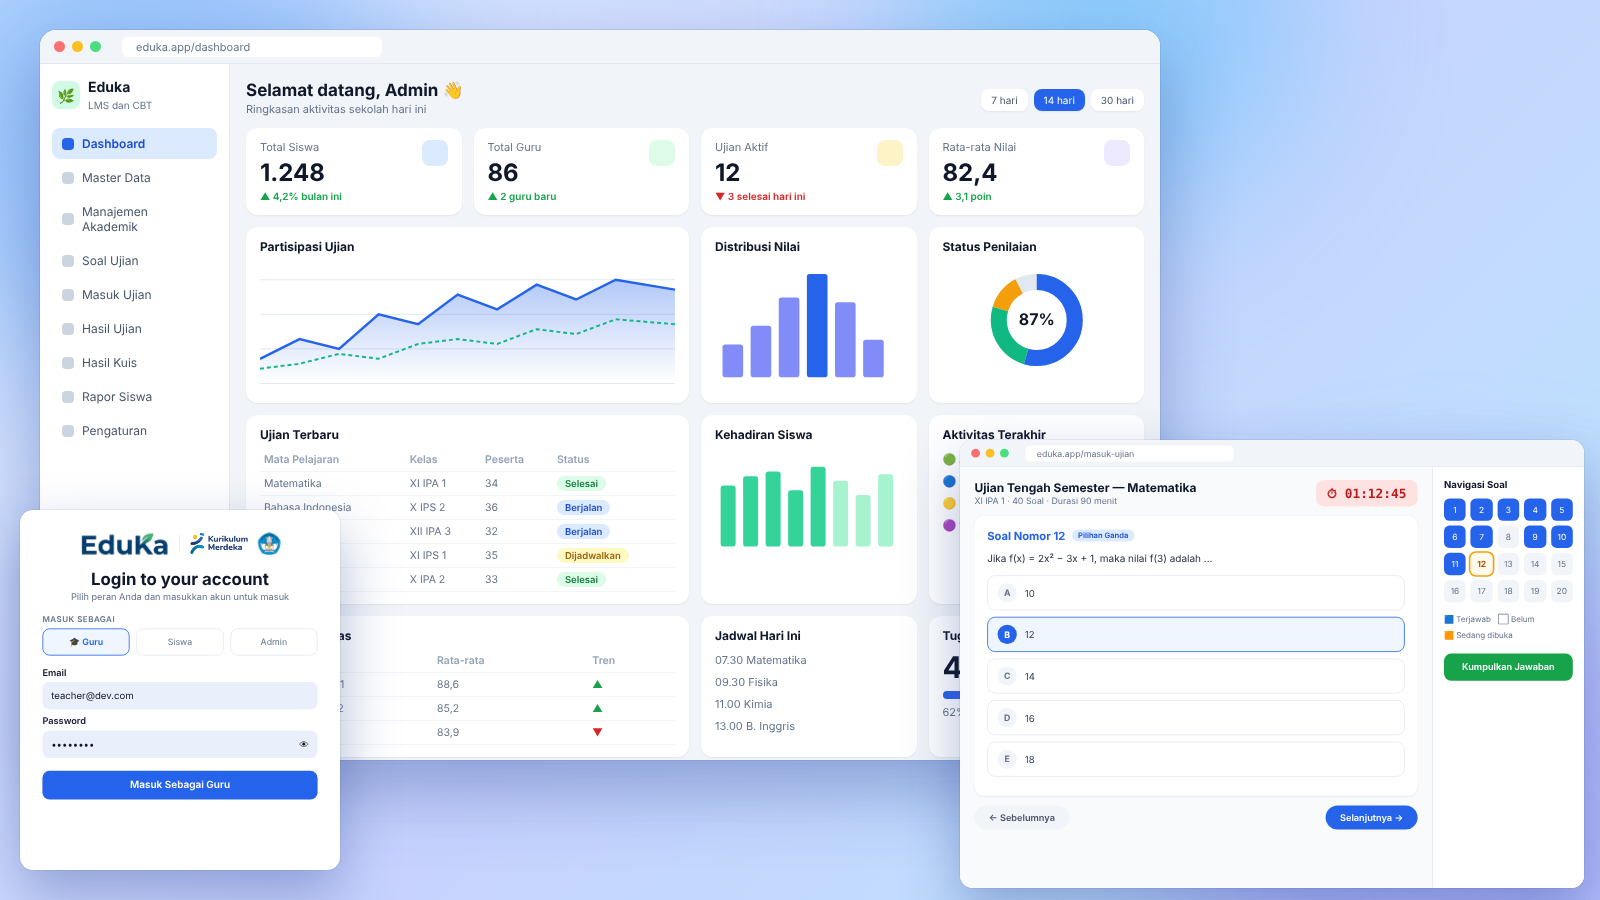
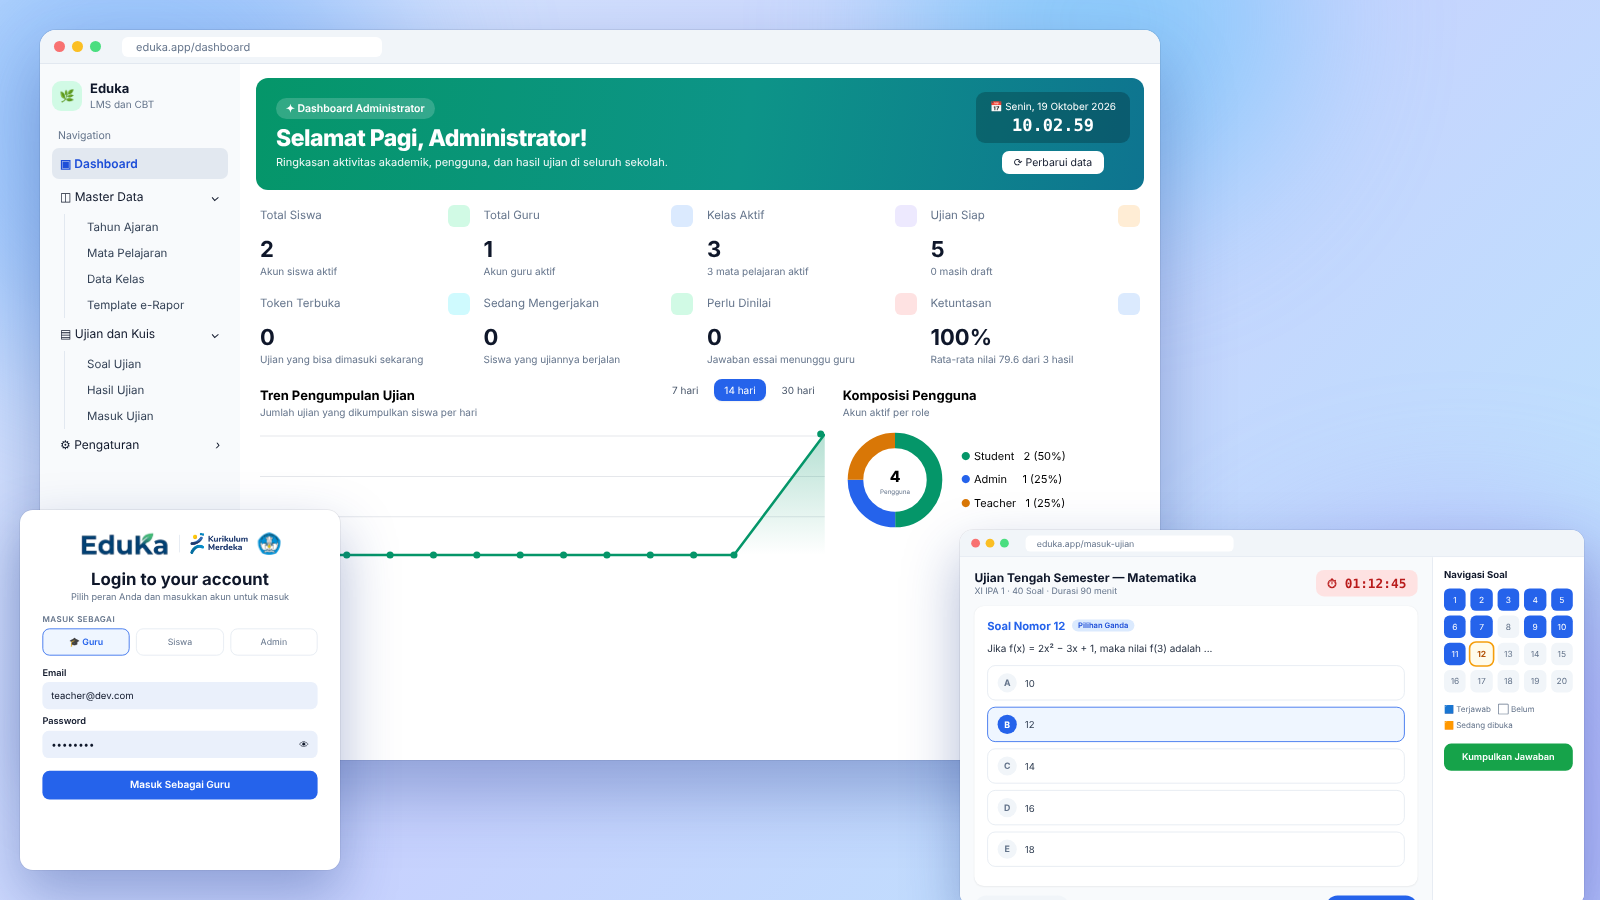
Thumbnail: ganti dashboard sesuai tampilan asli
Claude-Session: https://claude.ai/code/session_01ATwfgHp4Vpqeq6htkAiMvw

diff --git a/docs/thumbnail/thumbnail.html b/docs/thumbnail/thumbnail.html
@@ -58,6 +58,9 @@ table{width:100%;border-collapse:collapse;font-size:10.5px}td,th{padding:5px 4px
 .grid i.d{background:#2563eb;color:#fff}.grid i.c{outline:2px solid #f59e0b;background:#fffbeb;color:#b45309;font-weight:700}
 .legend{font-size:10px;color:#64748b;margin-top:12px;line-height:1.9}
 .k{margin-top:14px;height:34px;border-radius:9px;background:#16a34a;color:#fff;text-align:center;line-height:34px;font-size:11.5px;font-weight:600}
+.nv{padding:8px 8px;border-radius:7px;display:flex;justify-content:space-between;margin-bottom:2px;font-size:12px}.nv.on{background:#e2e8f0;color:#1d4ed8;font-weight:600}
+.sb{padding:6px 0 6px 22px;margin-left:12px;border-left:1px solid #e2e8f0;font-size:11.5px;color:#334155}
+.st{position:relative;font-size:11.5px;color:#64748b}.st i{position:absolute;right:0;top:-3px;width:22px;height:22px;border-radius:6px}.st b{display:block;font-size:22px;color:#0f172a;margin:14px 0 2px}.st small{font-size:10px}
 </style>
 <div class="blob" style="width:520px;height:520px;background:#60a5fa;left:-120px;top:-140px;opacity:.5"></div>
 <div class="blob" style="width:560px;height:560px;background:#a78bfa;right:-140px;bottom:-200px;opacity:.5"></div>
@@ -66,47 +69,49 @@ table{width:100%;border-collapse:collapse;font-size:10.5px}td,th{padding:5px 4px
 <!-- DASHBOARD -->
 <div class="win" style="left:40px;top:30px;width:1120px;height:730px">
  <div class="bar"><i style="background:#f87171"></i><i style="background:#fbbf24"></i><i style="background:#4ade80"></i><span>eduka.app/dashboard</span></div>
- <div class="dash">
-  <div class="side">
-   <div class="brand"><b>🌿</b><div>Eduka<br><small style="font-weight:400;color:#64748b;font-size:10px">LMS dan CBT</small></div></div>
-   <div class="m on">Dashboard</div><div class="m">Master Data</div><div class="m">Manajemen Akademik</div><div class="m">Soal Ujian</div><div class="m">Masuk Ujian</div><div class="m">Hasil Ujian</div><div class="m">Hasil Kuis</div><div class="m">Rapor Siswa</div><div class="m">Pengaturan</div>
+ <div style="display:flex;height:calc(100% - 34px);background:#fff">
+  <div style="width:200px;background:#f8fafc;padding:16px 12px;font-size:12px;color:#0f172a">
+   <div style="display:flex;gap:8px;align-items:center;margin-bottom:18px"><b style="width:30px;height:30px;border-radius:9px;background:#d1fae5;display:grid;place-items:center;color:#059669">🌿</b><div><b style="font-size:13px">Eduka</b><br><span style="font-size:10px;color:#64748b">LMS dan CBT</span></div></div>
+   <div style="font-size:10.5px;color:#64748b;margin:0 6px 6px">Navigation</div>
+   <div class="nv on">▣ Dashboard</div>
+   <div class="nv">◫ Master Data <i>⌄</i></div><div class="sb">Tahun Ajaran</div><div class="sb">Mata Pelajaran</div><div class="sb">Data Kelas</div><div class="sb">Template e-Rapor</div>
+   <div class="nv">▤ Ujian dan Kuis <i>⌄</i></div><div class="sb">Soal Ujian</div><div class="sb">Hasil Ujian</div><div class="sb">Masuk Ujian</div>
+   <div class="nv">⚙ Pengaturan <i>›</i></div>
+   <div style="position:absolute;bottom:16px;display:flex;gap:8px;align-items:center"><b style="width:30px;height:30px;border-radius:50%;background:#0f172a;color:#fff;display:grid;place-items:center;font-size:11px">N</b><div style="font-size:11px"><b>Administrator</b><br><span style="color:#64748b;font-size:10px">administrator@eduka.lo…</span></div></div>
   </div>
-  <div class="main">
-   <div class="top"><div><h2>Selamat datang, Admin 👋</h2><p>Ringkasan aktivitas sekolah hari ini</p></div><div class="chips"><span>7 hari</span><span class="on">14 hari</span><span>30 hari</span></div></div>
-   <div class="card stat"><i class="ic" style="background:#dbeafe"></i>Total Siswa<b>1.248</b><em class="up">▲ 4,2% bulan ini</em></div>
-   <div class="card stat"><i class="ic" style="background:#dcfce7"></i>Total Guru<b>86</b><em class="up">▲ 2 guru baru</em></div>
-   <div class="card stat"><i class="ic" style="background:#fef3c7"></i>Ujian Aktif<b>12</b><em class="dn">▼ 3 selesai hari ini</em></div>
-   <div class="card stat"><i class="ic" style="background:#ede9fe"></i>Rata-rata Nilai<b>82,4</b><em class="up">▲ 3,1 poin</em></div>
-   <div class="card c2"><h4>Partisipasi Ujian</h4>
-    <svg viewBox="0 0 420 130" width="100%"><defs><linearGradient id="a" x1="0" y1="0" x2="0" y2="1"><stop offset="0" stop-color="#2563eb" stop-opacity=".35"/><stop offset="1" stop-color="#2563eb" stop-opacity="0"/></linearGradient></defs>
-    <g stroke="#e2e8f0"><path d="M0 20H420M0 55H420M0 90H420M0 125H420"/></g>
-    <path d="M0 100 L40 80 L80 90 L120 55 L160 65 L200 35 L240 50 L280 25 L320 40 L360 20 L420 30 L420 125 L0 125Z" fill="url(#a)"/>
-    <path d="M0 100 L40 80 L80 90 L120 55 L160 65 L200 35 L240 50 L280 25 L320 40 L360 20 L420 30" fill="none" stroke="#2563eb" stroke-width="2.5"/>
-    <path d="M0 110 L40 105 L80 95 L120 100 L160 85 L200 80 L240 85 L280 70 L320 75 L360 60 L420 65" fill="none" stroke="#10b981" stroke-width="2" stroke-dasharray="4 3"/></svg></div>
-   <div class="card"><h4>Distribusi Nilai</h4>
-    <svg viewBox="0 0 200 130" width="100%"><g fill="#818cf8"><rect x="8" y="90" width="22" height="35" rx="3"/><rect x="38" y="70" width="22" height="55" rx="3"/><rect x="68" y="40" width="22" height="85" rx="3"/><rect x="98" y="15" width="22" height="110" rx="3" fill="#2563eb"/><rect x="128" y="45" width="22" height="80" rx="3"/><rect x="158" y="85" width="22" height="40" rx="3"/></g></svg></div>
-   <div class="card"><h4>Status Penilaian</h4>
-    <svg viewBox="0 0 120 120" width="100%" height="120"><circle cx="60" cy="60" r="38" fill="none" stroke="#e2e8f0" stroke-width="16"/><circle cx="60" cy="60" r="38" fill="none" stroke="#2563eb" stroke-width="16" stroke-dasharray="130 239" transform="rotate(-90 60 60)"/><circle cx="60" cy="60" r="38" fill="none" stroke="#10b981" stroke-width="16" stroke-dasharray="60 239" stroke-dashoffset="-130" transform="rotate(-90 60 60)"/><circle cx="60" cy="60" r="38" fill="none" stroke="#f59e0b" stroke-width="16" stroke-dasharray="30 239" stroke-dashoffset="-190" transform="rotate(-90 60 60)"/><text x="60" y="65" text-anchor="middle" font-size="16" font-weight="700" fill="#0f172a">87%</text></svg></div>
-   <div class="card c2"><h4>Ujian Terbaru</h4><table><tr><th>Mata Pelajaran</th><th>Kelas</th><th>Peserta</th><th>Status</th></tr>
-    <tr><td>Matematika</td><td>XI IPA 1</td><td>34</td><td><span class="pill g">Selesai</span></td></tr>
-    <tr><td>Bahasa Indonesia</td><td>X IPS 2</td><td>36</td><td><span class="pill b">Berjalan</span></td></tr>
-    <tr><td>Fisika</td><td>XII IPA 3</td><td>32</td><td><span class="pill b">Berjalan</span></td></tr>
-    <tr><td>Sejarah</td><td>XI IPS 1</td><td>35</td><td><span class="pill y">Dijadwalkan</span></td></tr>
-    <tr><td>Biologi</td><td>X IPA 2</td><td>33</td><td><span class="pill g">Selesai</span></td></tr></table></div>
-   <div class="card"><h4>Kehadiran Siswa</h4>
-    <svg viewBox="0 0 200 110" width="100%"><g fill="#34d399"><rect x="6" y="40" width="16" height="65" rx="3"/><rect x="30" y="30" width="16" height="75" rx="3"/><rect x="54" y="25" width="16" height="80" rx="3"/><rect x="78" y="45" width="16" height="60" rx="3"/><rect x="102" y="20" width="16" height="85" rx="3"/><rect x="126" y="35" width="16" height="70" rx="3" fill="#a7f3d0"/><rect x="150" y="50" width="16" height="55" rx="3" fill="#a7f3d0"/><rect x="174" y="28" width="16" height="77" rx="3" fill="#a7f3d0"/></g></svg></div>
-   <div class="card"><h4>Aktivitas Terakhir</h4>
-    <div style="line-height:2">🟢 Andi menyelesaikan Fisika<br>🔵 Bu Sari membuat soal baru<br>🟡 Rapor XII IPA diproses<br>🟣 12 siswa remedial</div></div>
-   <div class="card c2"><h4>Peringkat Kelas</h4><table><tr><th>#</th><th>Kelas</th><th>Rata-rata</th><th>Tren</th></tr>
-    <tr><td>1</td><td>XII IPA 1</td><td>88,6</td><td class="up">▲</td></tr><tr><td>2</td><td>XI IPA 2</td><td>85,2</td><td class="up">▲</td></tr><tr><td>3</td><td>X IPS 1</td><td>83,9</td><td class="dn">▼</td></tr></table></div>
-   <div class="card"><h4>Jadwal Hari Ini</h4><div style="line-height:2">07.30 Matematika<br>09.30 Fisika<br>11.00 Kimia<br>13.00 B. Inggris</div></div>
-   <div class="card"><h4>Tugas Belum Dinilai</h4><b style="font-size:30px;color:#0f172a">47</b><div style="margin-top:6px;height:8px;border-radius:99px;background:#e2e8f0"><div style="width:62%;height:100%;border-radius:99px;background:linear-gradient(90deg,#2563eb,#8b5cf6)"></div></div><div style="margin-top:6px">62% sudah dikoreksi</div></div>
+  <div style="flex:1;padding:14px 16px;overflow:hidden">
+   <div style="border-radius:12px;background:linear-gradient(100deg,#059669,#0d9488 55%,#0e7490);color:#fff;padding:18px 20px;height:112px;position:relative">
+    <span style="background:rgba(255,255,255,.18);padding:4px 10px;border-radius:99px;font-size:10.5px;font-weight:600">✦ Dashboard Administrator</span>
+    <div style="font-size:23px;font-weight:800;margin:8px 0 3px;letter-spacing:-.5px">Selamat Pagi, Administrator!</div>
+    <div style="font-size:11px;opacity:.95">Ringkasan aktivitas akademik, pengguna, dan hasil ujian di seluruh sekolah.</div>
+    <div style="position:absolute;right:14px;top:14px;text-align:center"><div style="background:rgba(0,0,0,.22);border-radius:9px;padding:8px 14px;font-size:10px">📅 Senin, 19 Oktober 2026<div style="font:700 17px ui-monospace,monospace;margin-top:3px">10.02.59</div></div><div style="background:#fff;color:#0f172a;border-radius:7px;padding:5px 12px;font-size:10.5px;margin-top:8px;display:inline-block">⟳ Perbarui data</div></div>
+   </div>
+   <div style="display:grid;grid-template-columns:repeat(4,1fr);gap:18px 14px;margin:18px 4px 18px">
+    <div class="st"><i style="background:#d1fae5"></i>Total Siswa<b>2</b><small>Akun siswa aktif</small></div>
+    <div class="st"><i style="background:#dbeafe"></i>Total Guru<b>1</b><small>Akun guru aktif</small></div>
+    <div class="st"><i style="background:#ede9fe"></i>Kelas Aktif<b>3</b><small>3 mata pelajaran aktif</small></div>
+    <div class="st"><i style="background:#ffedd5"></i>Ujian Siap<b>5</b><small>0 masih draft</small></div>
+    <div class="st"><i style="background:#cffafe"></i>Token Terbuka<b>0</b><small>Ujian yang bisa dimasuki sekarang</small></div>
+    <div class="st"><i style="background:#d1fae5"></i>Sedang Mengerjakan<b>0</b><small>Siswa yang ujiannya berjalan</small></div>
+    <div class="st"><i style="background:#fee2e2"></i>Perlu Dinilai<b>0</b><small>Jawaban essai menunggu guru</small></div>
+    <div class="st"><i style="background:#dbeafe"></i>Ketuntasan<b>100%</b><small>Rata-rata nilai 79.6 dari 3 hasil</small></div>
+   </div>
+   <div style="display:grid;grid-template-columns:1.9fr 1fr;gap:18px;margin:0 4px">
+    <div><div style="display:flex;justify-content:space-between"><div><b style="font-size:13px">Tren Pengumpulan Ujian</b><div style="font-size:10px;color:#64748b;margin-top:2px">Jumlah ujian yang dikumpulkan siswa per hari</div></div>
+     <div class="chips" style="font-size:10px"><span style="box-shadow:none">7 hari</span><span class="on">14 hari</span><span style="box-shadow:none">30 hari</span></div></div>
+     <svg viewBox="0 0 560 150" width="100%" style="margin-top:8px"><defs><linearGradient id="g2" x1="0" y1="0" x2="0" y2="1"><stop offset="0" stop-color="#059669" stop-opacity=".3"/><stop offset="1" stop-color="#059669" stop-opacity="0"/></linearGradient></defs>
+      <g stroke="#e5e7eb"><path d="M0 10H560M0 50H560M0 90H560"/></g><path d="M0 128H470L560 8V128Z" fill="url(#g2)"/><path d="M0 128H470L560 8" fill="none" stroke="#059669" stroke-width="2.5"/>
+      <g fill="#059669"><circle cx="0" cy="128" r="3.5"/><circle cx="43" cy="128" r="3.5"/><circle cx="86" cy="128" r="3.5"/><circle cx="129" cy="128" r="3.5"/><circle cx="172" cy="128" r="3.5"/><circle cx="215" cy="128" r="3.5"/><circle cx="258" cy="128" r="3.5"/><circle cx="301" cy="128" r="3.5"/><circle cx="344" cy="128" r="3.5"/><circle cx="387" cy="128" r="3.5"/><circle cx="430" cy="128" r="3.5"/><circle cx="470" cy="128" r="3.5"/><circle cx="556" cy="8" r="3.5"/></g></svg></div>
+    <div><b style="font-size:13px">Komposisi Pengguna</b><div style="font-size:10px;color:#64748b;margin:2px 0 10px">Akun aktif per role</div>
+     <div style="display:flex;gap:14px;align-items:center"><svg viewBox="0 0 100 100" width="104"><circle cx="50" cy="50" r="38" fill="none" stroke="#059669" stroke-width="15" stroke-dasharray="119 239" transform="rotate(-90 50 50)"/><circle cx="50" cy="50" r="38" fill="none" stroke="#2563eb" stroke-width="15" stroke-dasharray="60 239" stroke-dashoffset="-119" transform="rotate(-90 50 50)"/><circle cx="50" cy="50" r="38" fill="none" stroke="#d97706" stroke-width="15" stroke-dasharray="60 239" stroke-dashoffset="-179" transform="rotate(-90 50 50)"/><text x="50" y="52" text-anchor="middle" font-size="15" font-weight="800">4</text><text x="50" y="63" text-anchor="middle" font-size="6" fill="#64748b">Pengguna</text></svg>
+      <div style="font-size:11px;line-height:2.1"><span style="color:#059669">●</span> Student &nbsp;&nbsp;2 (50%)<br><span style="color:#2563eb">●</span> Admin &nbsp;&nbsp;&nbsp;&nbsp;1 (25%)<br><span style="color:#d97706">●</span> Teacher &nbsp;&nbsp;1 (25%)</div></div></div>
+   </div>
   </div>
  </div>
 </div>
 
 <!-- EXAM -->
-<div class="win" style="left:960px;top:440px;width:780px;height:560px;transform:scale(.8);transform-origin:top left">
+<div class="win" style="left:960px;top:530px;width:780px;height:470px;transform:scale(.8);transform-origin:top left">
  <div class="bar"><i style="background:#f87171"></i><i style="background:#fbbf24"></i><i style="background:#4ade80"></i><span>eduka.app/masuk-ujian</span></div>
  <div class="exam">
   <div class="ex-main">
